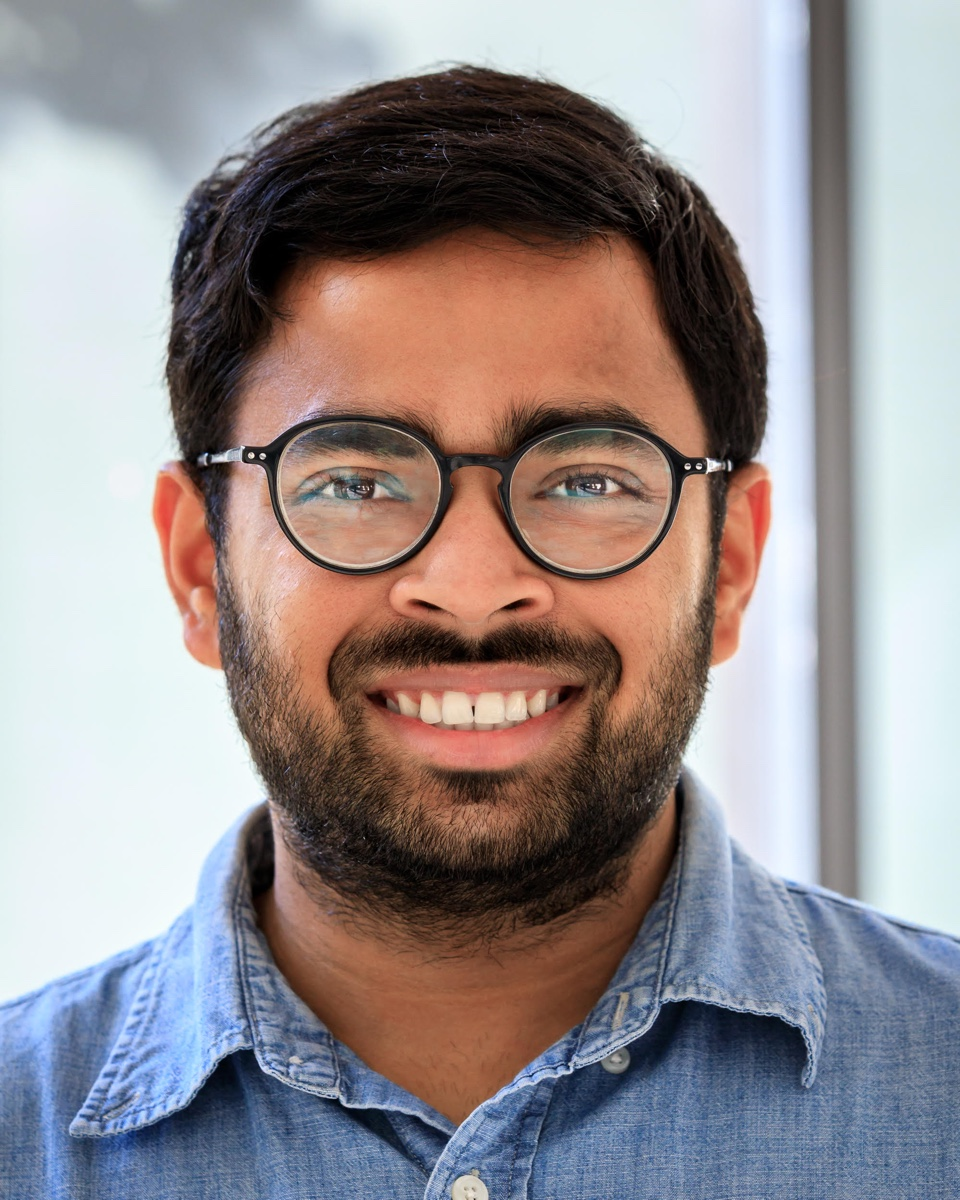
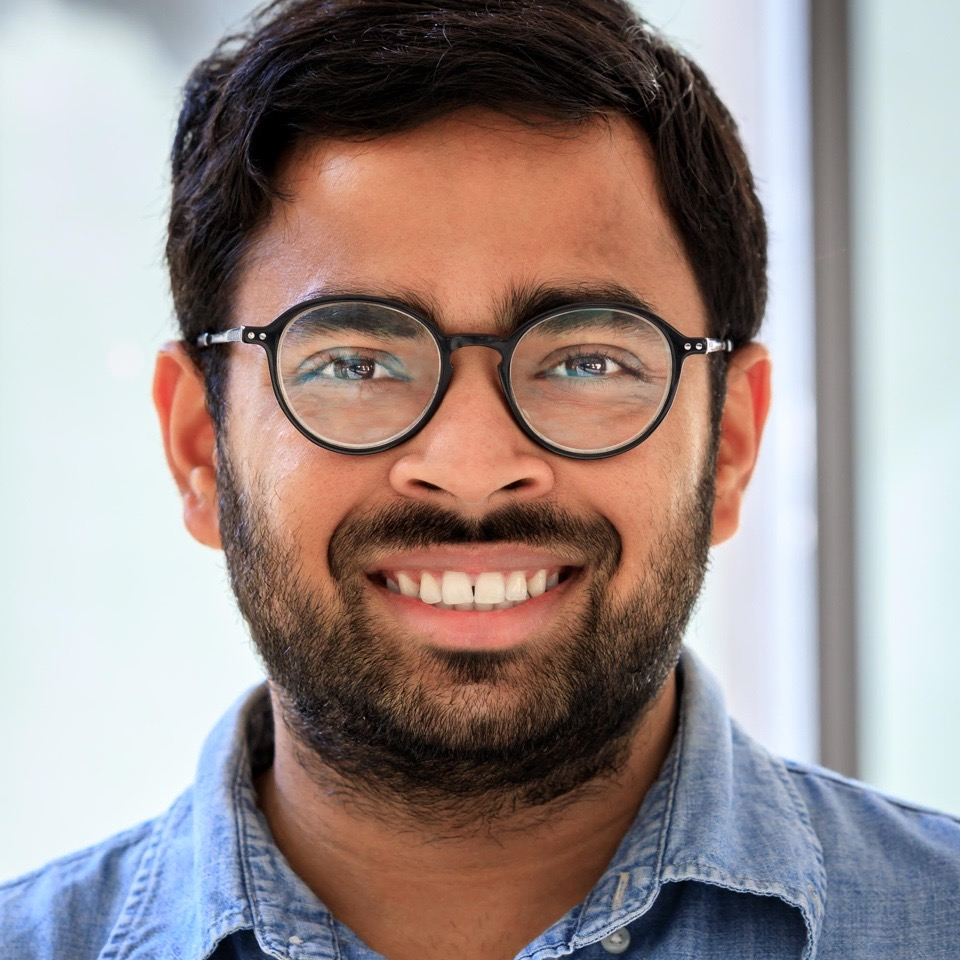
Refine typography and simplify project pages

diff --git a/assets/site.css b/assets/site.css
@@ -139,25 +139,15 @@ a {
 .hero {
   min-height: calc(100vh - 79px);
   display: grid;
-  grid-template-columns: minmax(0, 1fr) minmax(360px, 0.78fr);
+  grid-template-columns: minmax(0, 1fr) minmax(300px, 0.62fr);
   align-items: center;
-  gap: clamp(50px, 8vw, 112px);
-  padding-block: 72px 84px;
+  gap: clamp(48px, 7vw, 88px);
+  padding-block: 60px 72px;
 }
 
 .hero-copy {
   position: relative;
   z-index: 2;
-}
-
-.eyebrow,
-.project-kicker {
-  margin: 0 0 18px;
-  color: var(--teal);
-  font-size: 12px;
-  font-weight: 800;
-  letter-spacing: 0.16em;
-  text-transform: uppercase;
 }
 
 .hero h1,
@@ -170,16 +160,16 @@ a {
 }
 
 .hero h1 {
-  max-width: 680px;
-  font-size: clamp(68px, 9vw, 126px);
-  line-height: 0.82;
+  max-width: 560px;
+  font-size: clamp(50px, 6vw, 76px);
+  line-height: 0.92;
 }
 
 .role {
-  margin: 38px 0 5px;
+  margin: 28px 0 5px;
   color: var(--ink);
   font-family: var(--serif);
-  font-size: clamp(24px, 3vw, 34px);
+  font-size: clamp(22px, 2.4vw, 28px);
   line-height: 1.2;
 }
 
@@ -199,9 +189,9 @@ a {
 
 .intro {
   max-width: 540px;
-  margin: 30px 0 0;
+  margin: 24px 0 0;
   font-family: var(--serif);
-  font-size: 19px;
+  font-size: 17px;
   line-height: 1.65;
 }
 
@@ -209,7 +199,7 @@ a {
   display: inline-flex;
   align-items: center;
   gap: 28px;
-  margin-top: 32px;
+  margin-top: 26px;
   padding: 14px 18px;
   color: #fff;
   background: var(--navy);
@@ -230,37 +220,37 @@ a {
 
 .portrait-card {
   position: relative;
-  width: min(100%, 450px);
+  width: min(100%, 340px);
   margin: 0 auto;
-  padding: 16px 16px 0;
+  padding: 12px 12px 0;
 }
 
 .portrait-card::before {
   content: "";
   position: absolute;
   z-index: -2;
-  inset: -24px 42px 80px -24px;
+  inset: -18px 28px 62px -18px;
   border: 1px solid rgba(23, 50, 74, 0.22);
-  border-radius: 48% 48% 18px 18px;
+  border-radius: 12px;
 }
 
 .portrait-accent {
   position: absolute;
   z-index: -1;
-  right: -18px;
-  bottom: 44px;
-  width: 54%;
-  height: 42%;
+  right: -14px;
+  bottom: 38px;
+  width: 46%;
+  height: 34%;
   background: var(--gold);
 }
 
 .portrait-card img {
   width: 100%;
-  aspect-ratio: 4 / 5;
+  aspect-ratio: 1;
   display: block;
   object-fit: cover;
-  object-position: center top;
-  border-radius: 48% 48% 14px 14px;
+  object-position: center;
+  border-radius: 8px;
   filter: saturate(0.92) contrast(1.02);
 }
 
@@ -311,20 +301,20 @@ a {
 
 .page-intro {
   max-width: 840px;
-  padding: clamp(64px, 9vw, 112px) 0 60px;
+  padding: clamp(48px, 7vw, 76px) 0 46px;
 }
 
 .page-intro h1 {
-  font-size: clamp(58px, 9vw, 104px);
-  line-height: 0.96;
+  font-size: clamp(42px, 5vw, 64px);
+  line-height: 1;
 }
 
 .page-intro > p:last-child {
   max-width: 620px;
-  margin: 28px 0 0;
+  margin: 20px 0 0;
   color: var(--muted);
   font-family: var(--serif);
-  font-size: 20px;
+  font-size: 17px;
   line-height: 1.6;
 }
 
@@ -338,10 +328,10 @@ a {
 .project-card {
   position: relative;
   display: grid;
-  grid-template-columns: 72px minmax(0, 1fr) 54px;
+  grid-template-columns: minmax(0, 1fr) 48px;
   align-items: center;
-  gap: 28px;
-  padding: 34px 30px;
+  gap: 24px;
+  padding: 28px 22px;
   border-top: 1px solid var(--ink);
   border-bottom: 1px solid var(--line);
   transition: background 180ms ease;
@@ -351,22 +341,10 @@ a {
   background: rgba(255, 255, 255, 0.36);
 }
 
-.project-number,
-.document-number {
-  color: var(--teal);
-  font-size: 12px;
-  font-weight: 800;
-  letter-spacing: 0.08em;
-}
-
-.project-kicker {
-  margin-bottom: 10px;
-}
-
 .project-card h2 {
   margin: 0;
   font-family: var(--serif);
-  font-size: clamp(27px, 4vw, 42px);
+  font-size: clamp(24px, 3vw, 32px);
   font-weight: 600;
   letter-spacing: -0.025em;
 }
@@ -386,7 +364,7 @@ a {
   margin: 12px 0 0;
   color: var(--muted);
   font-family: var(--serif);
-  font-size: 16px;
+  font-size: 15px;
   line-height: 1.55;
 }
 
@@ -408,7 +386,13 @@ a {
 }
 
 .project-intro {
-  padding-bottom: 72px;
+  max-width: 780px;
+  padding-bottom: 54px;
+}
+
+.project-intro h1 {
+  font-size: clamp(40px, 4.8vw, 60px);
+  line-height: 1.04;
 }
 
 .document-section {
@@ -427,7 +411,7 @@ a {
 .section-heading h2 {
   margin: 0;
   font-family: var(--serif);
-  font-size: 28px;
+  font-size: 24px;
   font-weight: 600;
 }
 
@@ -439,10 +423,10 @@ a {
 
 .document-card {
   display: grid;
-  grid-template-columns: 54px minmax(0, 1fr) auto;
+  grid-template-columns: minmax(0, 1fr) auto;
   align-items: center;
-  gap: 28px;
-  padding: 28px 24px;
+  gap: 22px;
+  padding: 22px 18px;
   border-top: 1px solid var(--line);
   text-decoration: none;
   transition: background 180ms ease, padding 180ms ease;
@@ -465,7 +449,7 @@ a {
 
 .document-copy strong {
   font-family: var(--serif);
-  font-size: clamp(21px, 3vw, 29px);
+  font-size: clamp(20px, 2.4vw, 24px);
   font-weight: 600;
 }
 
@@ -473,7 +457,7 @@ a {
   max-width: 690px;
   color: var(--muted);
   font-family: var(--serif);
-  font-size: 15px;
+  font-size: 14px;
   line-height: 1.5;
 }
 
@@ -492,25 +476,25 @@ a {
   }
 
   .hero h1 {
-    font-size: clamp(68px, 20vw, 112px);
+    font-size: clamp(50px, 14vw, 72px);
   }
 
   .portrait-card {
-    width: min(88%, 450px);
+    width: min(80%, 340px);
   }
 
   .project-card {
-    grid-template-columns: 48px minmax(0, 1fr) 44px;
+    grid-template-columns: minmax(0, 1fr) 44px;
     gap: 18px;
     padding-inline: 12px;
   }
 
   .document-card {
-    grid-template-columns: 38px minmax(0, 1fr);
+    grid-template-columns: minmax(0, 1fr) auto;
   }
 
   .document-format {
-    grid-column: 2;
+    grid-column: auto;
   }
 }
 
@@ -542,7 +526,7 @@ a {
   }
 
   .hero h1 {
-    font-size: clamp(64px, 22vw, 96px);
+    font-size: clamp(46px, 15vw, 64px);
   }
 
   .role {
@@ -567,11 +551,11 @@ a {
   }
 
   .page-intro h1 {
-    font-size: 52px;
+    font-size: 42px;
   }
 
   .project-card {
-    grid-template-columns: 36px minmax(0, 1fr);
+    grid-template-columns: minmax(0, 1fr);
     padding-block: 26px;
   }
 

diff --git a/projects/type-iib-instantons/index.html b/projects/type-iib-instantons/index.html
@@ -29,8 +29,7 @@
       <a href="/">Home</a><span aria-hidden="true">/</span><a href="/projects/">Projects</a><span aria-hidden="true">/</span><span>Type IIB instantons</span>
     </nav>
     <header class="page-intro project-intro">
-      <p class="eyebrow">Project 01</p>
-      <h1>Instantons in<br>Type IIB String Theory</h1>
+      <h1>Instantons in Type IIB String Theory</h1>
       <p>This page collects the HTML notes and documents associated with this project.</p>
     </header>
 
@@ -42,7 +41,6 @@
       <ol class="document-list">
         <li>
           <a class="document-card" href="https://raghu-mahajan.github.io/Type-IIB-Instanton/">
-            <span class="document-number">01</span>
             <span class="document-copy">
               <strong>Worldsheet Conventions for Type IIB String Theory</strong>
               <span>Free fields, ghost systems, superconformal operator products, BRST, and picture changing.</span>

diff --git a/index.html b/index.html
@@ -32,7 +32,6 @@
   <main id="main-content">
     <section class="hero shell" aria-labelledby="hero-title">
       <div class="hero-copy">
-        <p class="eyebrow">Mathematical physics</p>
         <h1 id="hero-title">Raghu<br>Mahajan</h1>
         <p class="role">Reader <span>(Assistant Professor)</span></p>
         <p class="affiliation">International Centre for Theoretical Sciences<br>Bengaluru, India</p>
@@ -42,7 +41,7 @@
 
       <figure class="portrait-card">
         <div class="portrait-accent" aria-hidden="true"></div>
-        <img src="/assets/raghu-mahajan.jpg" width="960" height="1200" alt="Portrait of Raghu Mahajan">
+        <img src="/assets/raghu-mahajan.jpg" width="960" height="960" alt="Portrait of Raghu Mahajan">
         <figcaption>
           <span>ICTS</span>
           <span>Bengaluru</span>

diff --git a/projects/index.html b/projects/index.html
@@ -29,16 +29,13 @@
       <a href="/">Home</a><span aria-hidden="true">/</span><span>Projects</span>
     </nav>
     <header class="page-intro">
-      <p class="eyebrow">Research index</p>
       <h1>Projects</h1>
       <p>Current research projects and the notes collected under each one.</p>
     </header>
 
     <section class="project-list" aria-label="Current projects">
       <article class="project-card">
-        <div class="project-number" aria-hidden="true">01</div>
         <div class="project-content">
-          <p class="project-kicker">String theory</p>
           <h2><a href="/projects/type-iib-instantons/">Instantons in Type IIB String Theory</a></h2>
           <p>A growing collection of notes on worldsheet conventions and instanton calculations in Type IIB string theory.</p>
         </div>
